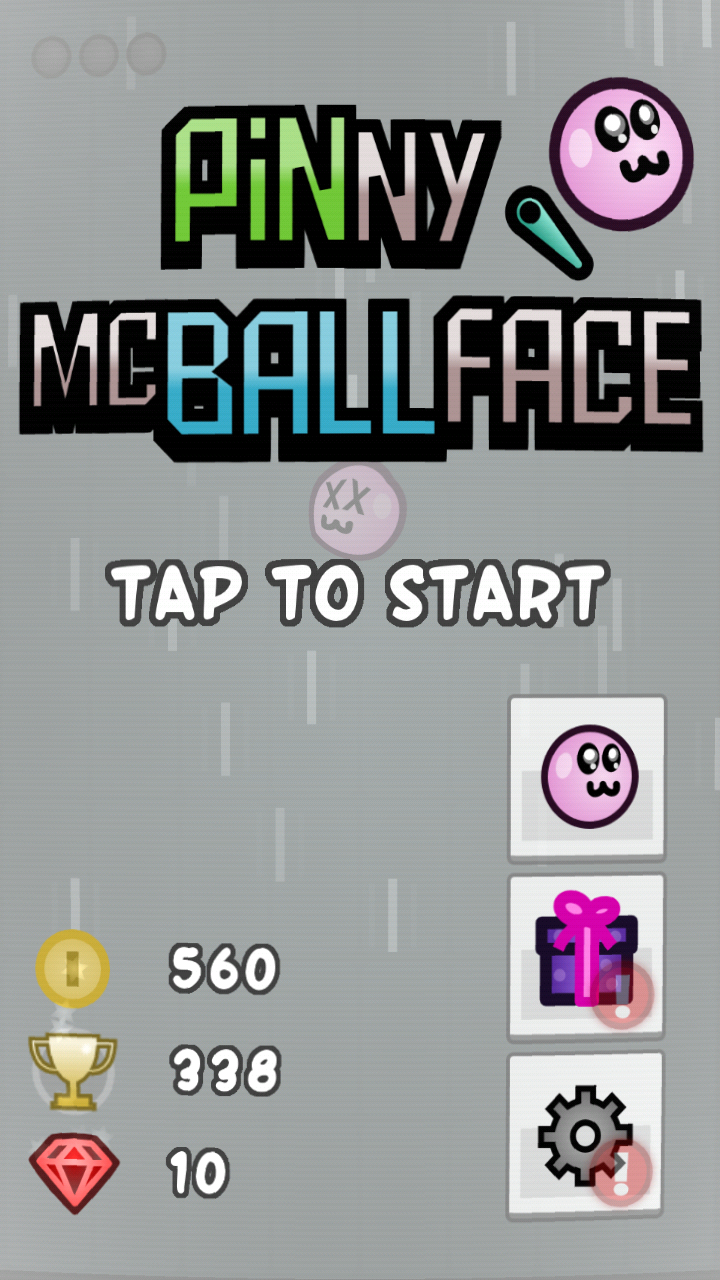
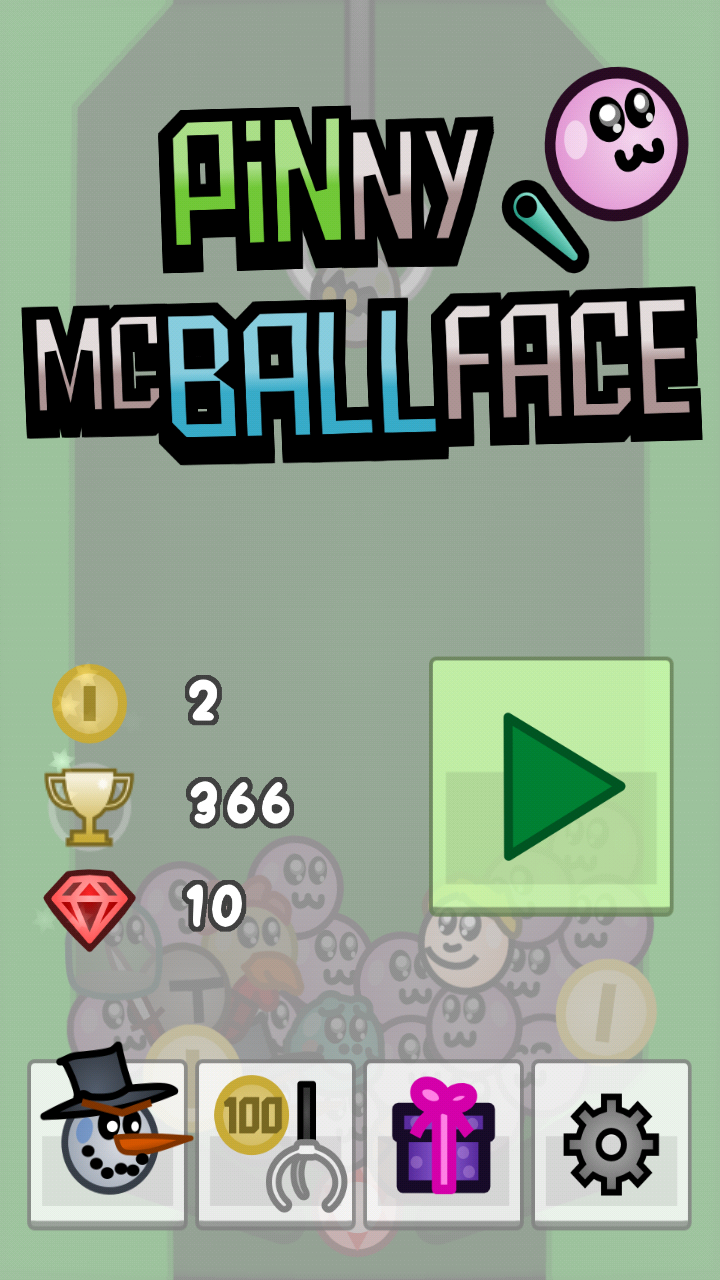
More screens.

diff --git a/press/index.html b/press/index.html
@@ -38,7 +38,8 @@
 
                 <ul>
                     <li>Play endless pinball! Keep scrolling up to new levels until you run out of lives.</li>
-                    <li>Collect coins and rubies on each level and earn high scores to unlock new characters.</li>
+                    <li>Collect rubies and earn high scores to unlock new characters.</li>
+                    <li>Earn coins to play the crane game for a chance to win a new character.</li>
                     <li>Randomly generated levels with progressively more difficult obstacles to avoid.</li>
                     <li>There will be 50+ adorable, slightly random, or truly horrifying characters at release, with more added in future updates.</li>
                     <li>Hourly and daily challenges for bonus coins.</li>
@@ -53,13 +54,13 @@
                 <p>
                     Pinny McBallface is <em>free</em> and ad-supported. A single
                     in-app purchase will disable ads forever and double the
-                    value of coins.
+                    value of coins. Any character can be unlocked for $0.99.
                 </p>
 
                 <h3>Release Date</h3>
                 <ul>
-                    <li><b>Android:</b> February 2017</li>
-                    <li><b>iOS:</b> March 2017</li>
+                    <li><b>Android:</b> March 2017</li>
+                    <li><b>iOS:</b> April 2017</li>
                 </ul>
 
                 <h3>Gameplay Video</h3>
@@ -77,6 +78,8 @@
                     <div class="col-sm-3"><a href="screen6.png"><img src="screen6.png" class="img img-responsive"/></a></div>
                     <div class="col-sm-3"><a href="screen7.png"><img src="screen7.png" class="img img-responsive"/></a></div>
                     <div class="col-sm-3"><a href="screen8.png"><img src="screen8.png" class="img img-responsive"/></a></div>
+                    <div class="col-sm-3"><a href="screen9.png"><img src="screen9.png" class="img img-responsive"/></a></div>
+                    <div class="col-sm-3"><a href="screen10.png"><img src="screen10.png" class="img img-responsive"/></a></div>
                 </div>
 
                 <h3>Icon</h3>

diff --git a/index.html b/index.html
@@ -22,7 +22,7 @@
                     <div class="header-content-inner">
                         <img src="img/logo.png" class="img img-responsive" name="Pinny McBallface logo"/>
                         <h1>Endless pinball! Play for free!</h1>
-                        <h1>(Coming soon)</h1>
+                        <h1>(Coming soon | <a href="/press/">press</a>)</h1>
                         <div class="badges">
                             <!--div class="col-xs-6"><a class="badge-link" href="https://play.google.com/store/apps/details?id=com.mousemob.pinny">
                                 <img class="img img-responsive" src="img/google-play-badge.png" alt="Android Google Play"/>
